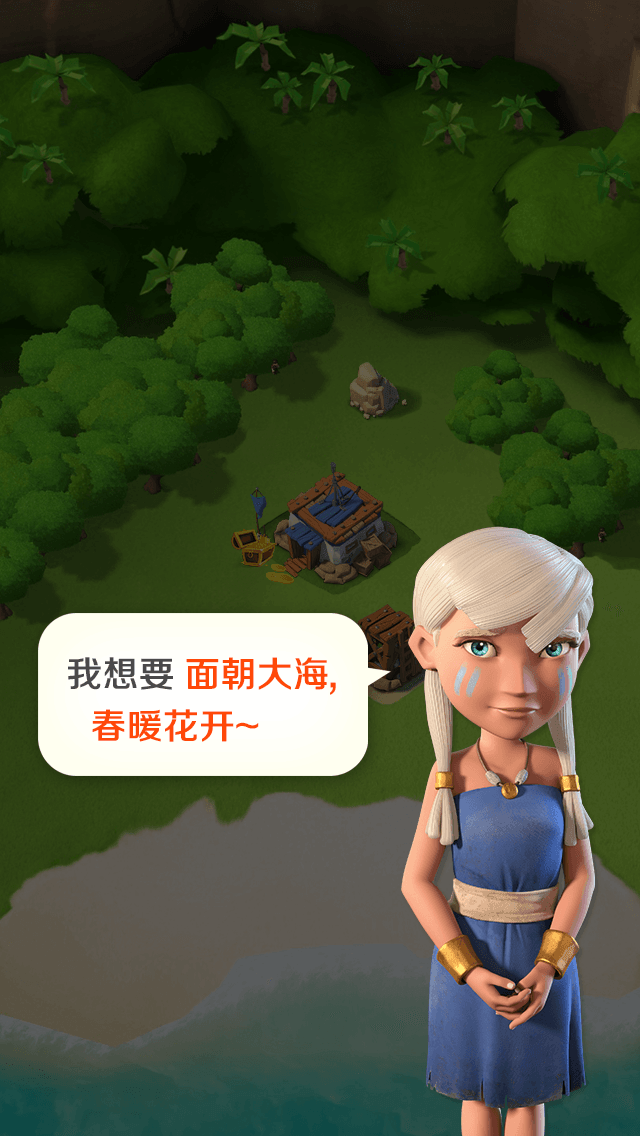
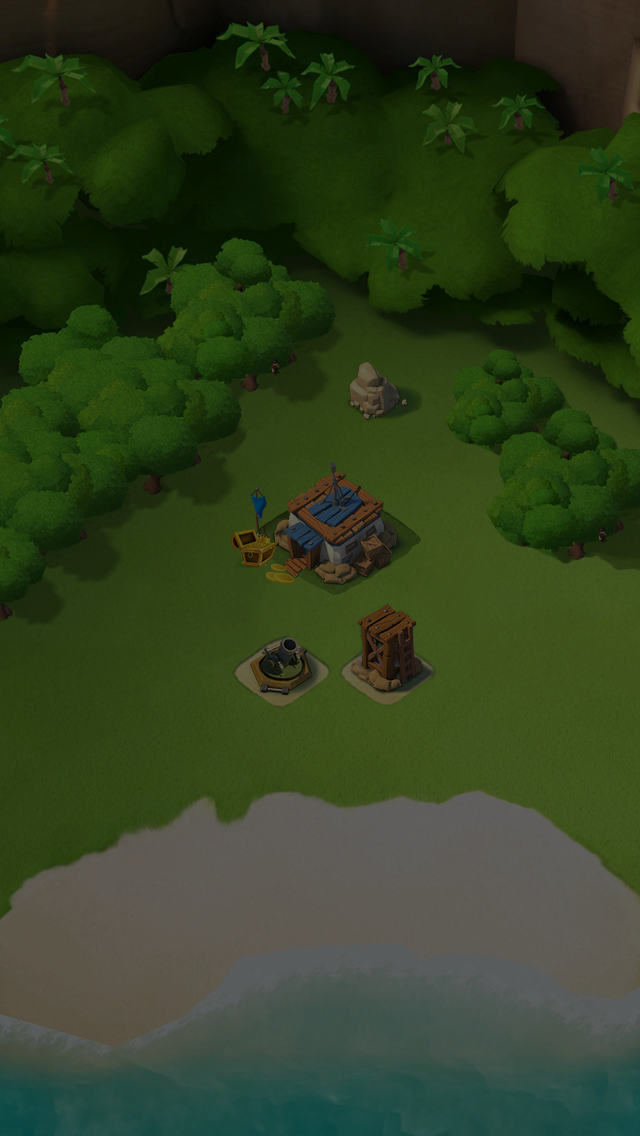
11

Changed region(s): [[0.625, 0.4621, 0.9375, 1.0], [0.0625, 0.5238, 0.5938, 0.7086], [0.375, 0.4313, 0.4375, 0.4621]]

diff --git a/land.html b/land.html
@@ -57,10 +57,16 @@
            
             </div>
             <div class="content_img" id="content_img1" style="display:none" >
-                <div class="content_img_man"></div>
+                <img class="content_img_man" src="./land/images/man.png" style="width: 180px;position: absolute;bottom: 0px;"></img>
+                <img src="./land/images/duihua1.png" style="width: 150px;position: absolute;bottom: 155px;left: 160px;"></img>
             </div>
-            <div class="content_img" id="content_img2" style="display:none"></div>
-            <div class="content_img" id="content_img3"  style="display:none"></div>
+            <div class="content_img" id="content_img2" style="display:none">
+                 <img class="content_img_nvman" src="./land/images/wnman.png" style="width: 110px;position: absolute;bottom: 0px;left: 55%;"></img>
+                     <img src="./land/images/duihua2.png" style="width: 170px;position: absolute;bottom: 185px;left: 10px;"></img>
+            </div>
+            <div class="content_img" id="content_img3"  style="display:none">
+               <img class="content_img_shuoming" src="./land/images/shuoming.png" style="width: 300px;position: absolute;top:35%;margin-left:-150px;left:50%;"></img>
+            </div>
             <img src="./land/images/scuree_header.png" style="display:none"></img>
      <script type="text/javascript">
      window.onload=function(){
@@ -72,7 +78,7 @@
      var bodytxt=document.getElementById("content_body_txt");
     document.getElementById("content_btn1").addEventListener('touchend', function (e) { 
       document.getElementById("content_pop").innerHTML="提示：巧取成功还可以获得现金红包";
-       bodytxt.style.backgroundColor="#33301a";
+       bodytxt.style.background="rgba(0, 0, 0, 0.4)";
        bodytxt.style.color="#fff";
        document.getElementById("content_body_txt").style.display="block";
        i++;

diff --git a/land/css/stylesheet.css b/land/css/stylesheet.css
@@ -332,13 +332,13 @@ margin-top:70px;
     position:relative;
     width: 100%;
     height: 100%;
-    background: url('../images/2.png') no-repeat;
+    background: url('../images/1.png') no-repeat;
     background-size: 100% 100%;
 }
 #content_img3{
     position:relative;
     width: 100%;
     height: 100%;
-    background: url('../images/3.png') no-repeat;
+    background: url('../images/1.png') no-repeat;
     background-size: 100% 100%;
 }
